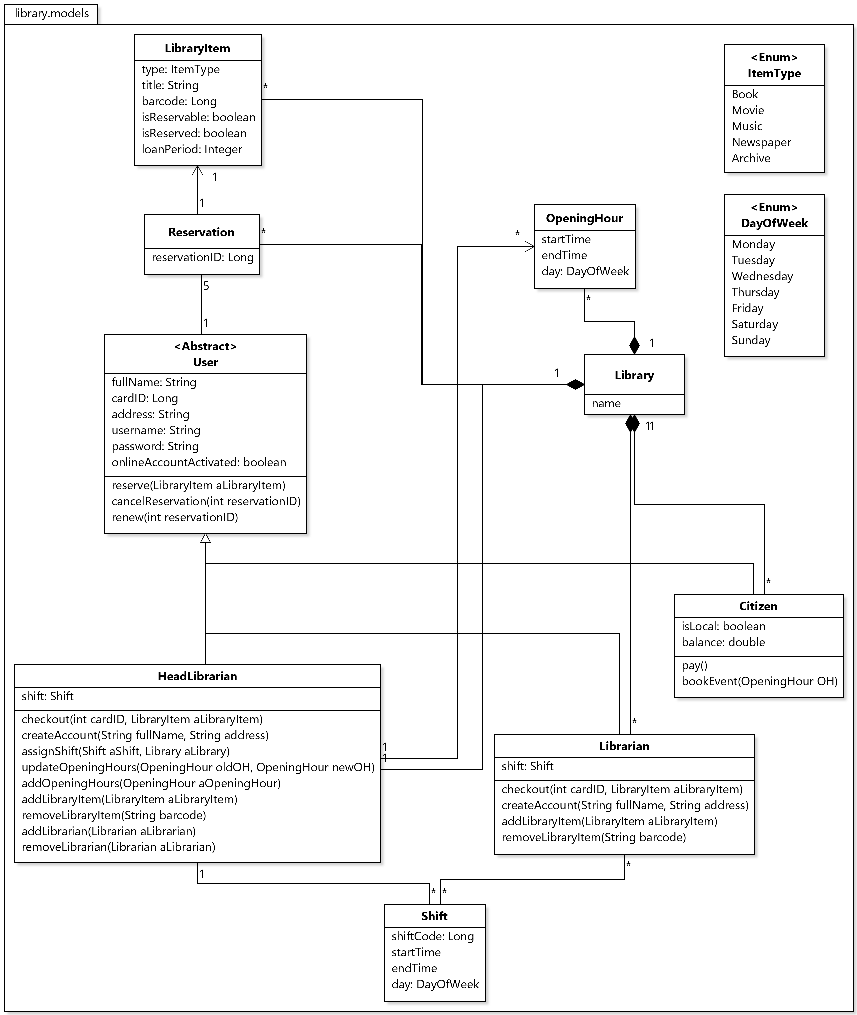
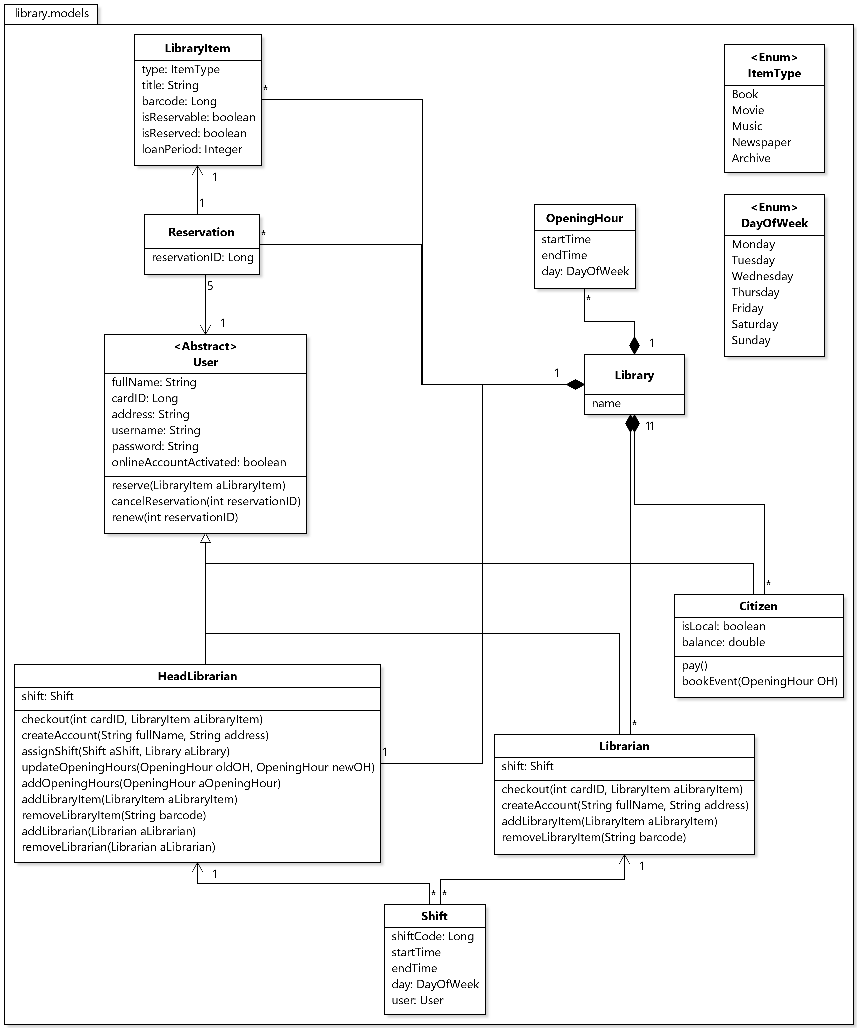
Fix class models from deliverable 1
-Delete the association between HeadLibrarian and OpeningHour
-Change the following association to be unidirectional:
Shift --> Librarian
Shift --> HeadLibrarian
Reservation --> User

diff --git a/LibrarySystem-Backend/src/main/java/ca/mcgill/ecse321/library/models/Shift.java b/LibrarySystem-Backend/src/main/java/ca/mcgill/ecse321/library/models/Shift.java
@@ -29,8 +29,7 @@ public class Shift
   private Long shiftCode;
 
   //Shift Associations
-  private HeadLibrarian headLibrarian;
-  private List<Librarian> librarians;
+  private User user; // can only be either Librarian or HeadLibrarian
 
   //------------------------
   // CONSTRUCTOR
@@ -87,28 +86,37 @@ public class Shift
   {
     return this.shiftCode;
   }
- 
+  
   @ManyToOne
-  public HeadLibrarian getHeadLibrarian()
-  {
-    return this.headLibrarian;
+  public User getUser () {
+	  return this.user;
   }
-
-  @ManyToMany
-  public List<Librarian> getLibrarians()
-  {
-    return this.librarians;
+  
+  public void setUser(User aUser) {
+	  this.user = aUser;
   }
  
-  public void setHeadLibrarian(HeadLibrarian aHeadLibrarian)
-  {
-	  this.headLibrarian=aHeadLibrarian;
-
-  }
-
-  public void setLibrarians (List<Librarian> alibrarians) {
-	  this.librarians=alibrarians;
-  }
+//  @ManyToOne
+//  public HeadLibrarian getHeadLibrarian()
+//  {
+//    return this.headLibrarian;
+//  }
+//
+//  @ManyToMany
+//  public List<Librarian> getLibrarians()
+//  {
+//    return this.librarians;
+//  }
+// 
+//  public void setHeadLibrarian(HeadLibrarian aHeadLibrarian)
+//  {
+//	  this.headLibrarian=aHeadLibrarian;
+//
+//  }
+//
+//  public void setLibrarians (List<Librarian> alibrarians) {
+//	  this.librarians=alibrarians;
+//  }
 
   
 }

diff --git a/LibrarySystem-Backend/src/test/java/ca/mcgill/ecse321/library/dao/TestShiftPersistence.java b/LibrarySystem-Backend/src/test/java/ca/mcgill/ecse321/library/dao/TestShiftPersistence.java
@@ -62,8 +62,8 @@ public class TestShiftPersistence {
         Shift s=new Shift();
         s.setDay(DayOfWeek.Monday);
         DayOfWeek day=s.getDay();
-        s.setLibrarians(ls);
-        s.setHeadLibrarian(hl);
+//        s.setLibrarians(ls);
+//       s.setHeadLibrarian(hl);
         shiftRepository.save(s);
         long sCode=s.getShiftCode();
 
@@ -71,8 +71,8 @@ public class TestShiftPersistence {
 
         s=shiftRepository.findShiftByShiftCode(sCode);
         assertNotNull(s);
-        assertEquals(userIdhl, s.getHeadLibrarian().getCardID());
-        assertEquals(userIdl, s.getLibrarians().get(0).getCardID());
+//        assertEquals(userIdhl, s.getHeadLibrarian().getCardID());
+//        assertEquals(userIdl, s.getLibrarians().get(0).getCardID());
         assertEquals(sCode, s.getShiftCode()); 
         assertEquals(day, s.getDay());
 	}

diff --git a/LibrarySystem-Backend/src/main/java/ca/mcgill/ecse321/library/models/HeadLibrarian.java b/LibrarySystem-Backend/src/main/java/ca/mcgill/ecse321/library/models/HeadLibrarian.java
@@ -14,14 +14,6 @@ public class HeadLibrarian extends User
 {
 
   //------------------------
-  // MEMBER VARIABLES
-  //------------------------
-
-  //HeadLibrarian Associations
-  private List<OpeningHour> openinghour;
-  private List<Shift> shift;
-
-  //------------------------
   // CONSTRUCTOR
   //------------------------
 
@@ -29,30 +21,6 @@ public class HeadLibrarian extends User
 	  
   }
 
-  //------------------------
-  // INTERFACE
-  //------------------------
 
-  public void setShift(List<Shift> aShift)
-  {
-    this.shift = aShift;
-  }
-
-  @OneToMany
-  public List<Shift> getShift()
-  {
-    return this.shift;
-  }
-
-  @OneToMany
-  public List<OpeningHour> getOpeninghour()
-  {
-    return this.openinghour;
-  }
-
-  public void setOpeninghour(List<OpeningHour> aOpeninghour)
-  {
-    this.openinghour = aOpeninghour;
-  }
 
  }

diff --git a/LibrarySystem-Backend/src/main/java/ca/mcgill/ecse321/library/models/User.java b/LibrarySystem-Backend/src/main/java/ca/mcgill/ecse321/library/models/User.java
@@ -24,9 +24,6 @@ public abstract class User
   private String password;
   private boolean onlineAccountActivated;
 
-  //User Associations
-  private List<Reservation> reservation;
-
   //------------------------
   // CONSTRUCTOR
   //------------------------
@@ -119,15 +116,15 @@ public abstract class User
 //    return aReservation;
 //  }
   
-  @OneToMany
-  public List<Reservation> getReservation()
-  {
-	  return this.reservation;
-  }
-
-  public void setReservation(List<Reservation> Reservations)
-  {
-	  this.reservation=Reservations;
-  }
+//  @OneToMany
+//  public List<Reservation> getReservation()
+//  {
+//	  return this.reservation;
+//  }
+//
+//  public void setReservation(List<Reservation> Reservations)
+//  {
+//	  this.reservation=Reservations;
+//  }
   
 }

diff --git a/LibrarySystem-Backend/src/main/java/ca/mcgill/ecse321/library/models/Librarian.java b/LibrarySystem-Backend/src/main/java/ca/mcgill/ecse321/library/models/Librarian.java
@@ -12,13 +12,6 @@ public class Librarian extends User
 {
 
   //------------------------
-  // MEMBER VARIABLES
-  //------------------------
-
-  //Librarian Associations
-  private List<Shift> shift;
-
-  //------------------------
   // CONSTRUCTOR
   //------------------------
 
@@ -26,20 +19,5 @@ public class Librarian extends User
 	  
   }
 
-  //------------------------
-  // INTERFACE
-  //------------------------
-
-  public void setShift(List<Shift> aShift)
-  {
-    this.shift = aShift;
-  }
-
-  @ManyToMany
-  public List<Shift> getShift()
-  {
-    return this.shift;
-  }
-  
 
 }

diff --git a/LibrarySystem-Backend/src/main/java/ca/mcgill/ecse321/library/dao/ShiftRepository.java b/LibrarySystem-Backend/src/main/java/ca/mcgill/ecse321/library/dao/ShiftRepository.java
@@ -11,7 +11,7 @@ import ca.mcgill.ecse321.library.models.Shift;
 public interface ShiftRepository extends CrudRepository<Shift, Long>{
     
     Shift findShiftByShiftCode(long shiftCode); 
-    List<Shift> findShiftByLibrarians(Librarian librarians);
-    List<Shift> findShiftByHeadLibrarian(HeadLibrarian headlibrarian);
+//    List<Shift> findShiftByLibrarians(Librarian librarians);
+//    List<Shift> findShiftByHeadLibrarian(HeadLibrarian headlibrarian);
 
 }

diff --git a/LibrarySystem-Backend/src/test/java/ca/mcgill/ecse321/library/dao/TestLibrarianPersistence.java b/LibrarySystem-Backend/src/test/java/ca/mcgill/ecse321/library/dao/TestLibrarianPersistence.java
@@ -48,7 +48,7 @@ public class TestLibrarianPersistence {
         DayOfWeek day=s2.getDay();
         s2.setStartTime(new Time(6,30,0));
         s2.setEndTime(new Time(16,30,0));
-        s2.setHeadLibrarian(null);
+//        s2.setHeadLibrarian(null);
         shiftRepository.save(s2);
         long sCode=s2.getShiftCode();
         List sl = new ArrayList<Shift>();

diff --git a/LibrarySystem-Backend/src/main/java/ca/mcgill/ecse321/library/dao/LibrarianRepository.java b/LibrarySystem-Backend/src/main/java/ca/mcgill/ecse321/library/dao/LibrarianRepository.java
@@ -11,6 +11,6 @@ import ca.mcgill.ecse321.library.models.Librarian;
 public interface LibrarianRepository extends CrudRepository<Librarian, Long>{
     
     Librarian findLibrarianByCardID(long cardID);
-    List<Librarian> findLibrarianByShift(Shift shift);
+//    List<Librarian> findLibrarianByShift(Shift shift);
 
 }

diff --git a/LibrarySystem-Backend/src/main/java/ca/mcgill/ecse321/library/dao/UserRepository.java b/LibrarySystem-Backend/src/main/java/ca/mcgill/ecse321/library/dao/UserRepository.java
@@ -8,6 +8,6 @@ import ca.mcgill.ecse321.library.models.User;
 public interface UserRepository extends CrudRepository<User, Long>{
 	
 	User findCitizenByCardID(Long cardID);
-	User findUserByReservation(Reservation reservation);
+//	User findUserByReservation(Reservation reservation);
 
 }

diff --git a/LibrarySystem-Backend/src/main/java/ca/mcgill/ecse321/library/models/OpeningHour.java b/LibrarySystem-Backend/src/main/java/ca/mcgill/ecse321/library/models/OpeningHour.java
@@ -26,8 +26,6 @@ public class OpeningHour
   private Time endTime;
   private DayOfWeek day;
 
-  //OpeningHour Associations
-  private HeadLibrarian headLibrarian;
 
   //------------------------
   // CONSTRUCTOR
